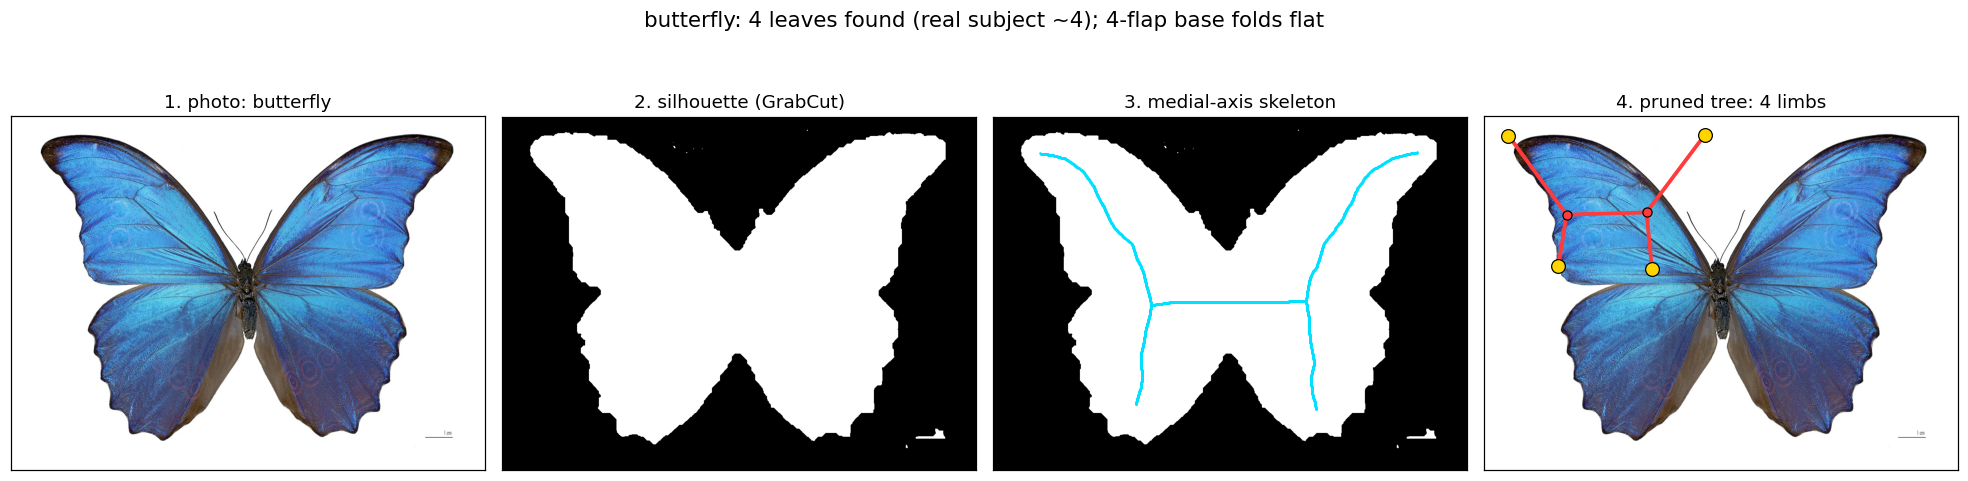
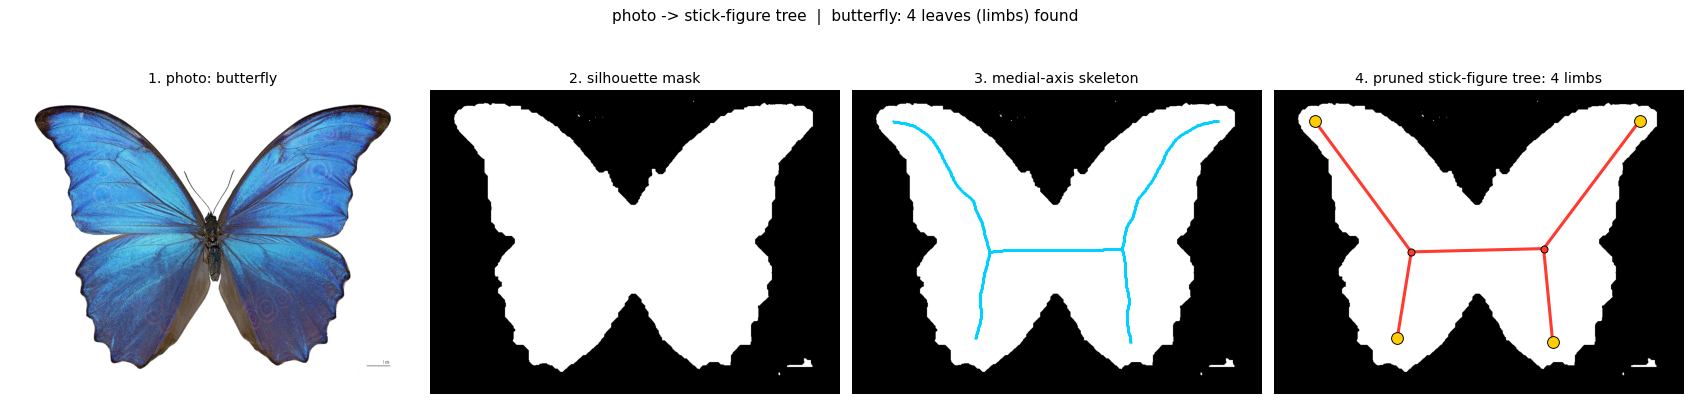
Photo-to-tree: fix segmentation so limbs extract correctly (starfish 5)
Root cause was auto-rect selecting a full-frame background band on textured
photos, not the pruning. Reject frame-spanning saliency boxes. Starfish now
yields 5 limbs; proof panels added. 5-flap base still partial (documented).

diff --git a/examples/_proof_gen.py b/examples/_proof_gen.py
@@ -1,0 +1,106 @@
+"""Generate photo->tree and photo->base proof panels for the skeleton bridge."""
+import sys
+import numpy as np
+import matplotlib
+matplotlib.use("Agg")
+import matplotlib.pyplot as plt
+
+from foldforge.design.skeleton import tree_from_image, design_from_image
+
+OUT = "examples/output"
+
+
+def draw_tree(ax, coords, adj, color="#ff3b30"):
+    """Draw a stick-figure tree (edges then nodes) using (row, col) coords."""
+    seen = set()
+    for u in adj:
+        if u not in coords:
+            continue
+        for v, _ in adj[u]:
+            if v not in coords:
+                continue
+            key = (min(u, v), max(u, v))
+            if key in seen:
+                continue
+            seen.add(key)
+            (r0, c0), (r1, c1) = coords[u], coords[v]
+            ax.plot([c0, c1], [r0, r1], "-", color=color, lw=2.6, zorder=3)
+    for u in adj:
+        if u not in coords:
+            continue
+        r, c = coords[u]
+        leaf = len(adj[u]) == 1
+        ax.plot(c, r, "o", color="#ffcc00" if leaf else color,
+                ms=10 if leaf else 6, mec="k", mew=0.8, zorder=4)
+
+
+def panel(name):
+    ext = tree_from_image(f"examples/samples/{name}.jpg")
+    photo = plt.imread(f"examples/samples/{name}.jpg")
+    mask = np.asarray(ext.mask) > 0
+    fig, ax = plt.subplots(1, 4, figsize=(20, 5.4))
+    ax[0].imshow(photo); ax[0].set_title(f"1. photo: {name}")
+    ax[1].imshow(mask, cmap="gray"); ax[1].set_title("2. silhouette mask")
+    ax[2].imshow(mask, cmap="gray")
+    ys, xs = np.where(ext.skeleton)
+    ax[2].scatter(xs, ys, s=1.0, c="#00d0ff")
+    ax[2].set_title("3. medial-axis skeleton")
+    ax[3].imshow(mask, cmap="gray")
+    draw_tree(ax[3], ext.node_coords, ext.tree_adj)
+    ax[3].set_title(f"4. pruned stick-figure tree: {ext.n_leaves} limbs")
+    for a in ax:
+        a.axis("off")
+    fig.suptitle(f"photo -> stick-figure tree  |  {name}: {ext.note}", fontsize=13)
+    fig.tight_layout()
+    p = f"{OUT}/photo_to_tree_{name}.png"
+    fig.savefig(p, dpi=85, bbox_inches="tight")
+    plt.close(fig)
+    print("wrote", p, "leaves=", ext.n_leaves)
+
+
+def base_panel(name):
+    d = design_from_image(f"examples/samples/{name}.jpg")
+    ext, pk, pt = d.extraction, d.packing, d.pattern
+    fig, ax = plt.subplots(1, 3, figsize=(16, 5.6))
+
+    mask = np.asarray(ext.mask) > 0
+    ax[0].imshow(mask, cmap="gray")
+    draw_tree(ax[0], ext.node_coords, ext.tree_adj)
+    ax[0].set_title(f"1. extracted tree: {ext.n_leaves} limbs")
+    ax[0].axis("off")
+
+    ax[1].set_aspect("equal")
+    ax[1].add_patch(plt.Rectangle((0, 0), 1, 1, fill=False, ec="#333", lw=1))
+    for (cx, cy), rr in zip(pk.centers, pk.radii):
+        ax[1].add_patch(plt.Circle((cx, cy), rr, fill=False, ec="#ff3b30", lw=1.6))
+        ax[1].plot(cx, cy, "o", color="#ff3b30", ms=4)
+    ax[1].set_xlim(-0.02, 1.02); ax[1].set_ylim(-0.02, 1.02)
+    ax[1].set_title("2. packed flap circles")
+
+    ax[2].set_aspect("equal")
+    V = np.asarray(pt.vertices)
+    col = {"M": "#d00", "V": "#06c", "B": "#333", "F": "#bbb", "U": "#999"}
+    for (i, j), a in zip(pt.edges, pt.assignment):
+        ax[2].plot([V[i][0], V[j][0]], [V[i][1], V[j][1]], "-",
+                   color=col.get(str(a), "#999"), lw=1.3)
+    ax[2].set_title("3. crease pattern (M=red, V=blue, B=black)")
+    ax[2].axis("equal"); ax[2].axis("off")
+
+    fold = "folds FLAT" if d.fold_flat else "PARTIAL (not flat-foldable)"
+    fig.suptitle(
+        f"photo -> tree -> base  |  {name}: {ext.n_leaves}-flap base {fold}\n"
+        f"{d.note}", fontsize=10)
+    fig.tight_layout()
+    p = f"{OUT}/photo_to_base_{name}.png"
+    fig.savefig(p, dpi=90, bbox_inches="tight")
+    plt.close(fig)
+    print("wrote", p)
+    print("FOLD_VALIDITY:", d.note)
+
+
+if __name__ == "__main__":
+    which = sys.argv[1]
+    if which.startswith("base:"):
+        base_panel(which.split(":", 1)[1])
+    else:
+        panel(which)

diff --git a/tests/test_autorect.py b/tests/test_autorect.py
@@ -37,6 +37,31 @@ def test_auto_rect_boxes_the_offcentre_subject():
     assert cx > 0.5 * W and cy > 0.5 * H                      # lower-right, where the subject is
 
 
+def _full_width_grain_band():
+    """A full-width textured band across the top (think wood grain) over a smooth
+    field: the saliency map lights up edge to edge, so the largest edge-density
+    blob is the *background* band, not the subject."""
+    import cv2
+    H, W = 220, 320
+    img = np.full((H, W, 3), 150, np.uint8)                  # smooth field
+    for y in range(0, int(H * 0.45)):                        # horizontal grain, full width
+        img[y, :] = (60, 60, 60) if ((y // 3) % 2 == 0) else (210, 210, 210)
+    return img
+
+
+def test_auto_rect_rejects_full_frame_band():
+    """A saliency blob spanning the full frame width has bled into a textured
+    background; the seed must fall back to the centred inset box, not return the
+    edge-to-edge band. Regression for the starfish-on-wood-grain under-count."""
+    from foldforge.origamize.vision import _auto_rect
+    img = _full_width_grain_band()
+    H, W = img.shape[:2]
+    rx, ry, rw, rh = _auto_rect(img)
+    assert rw < 0.98 * W and rh < 0.98 * H                   # not a full-frame band
+    cx, cy = rx + rw / 2, ry + rh / 2                        # centred fallback box
+    assert abs(cx - 0.5 * W) < 0.1 * W and abs(cy - 0.5 * H) < 0.1 * H
+
+
 def test_auto_mask_captures_offcentre_subject():
     from foldforge.origamize.vision import silhouette_mask
     img, (x0, y0, x1, y1) = _offcentre_textured_subject()

diff --git a/tests/test_skeleton.py b/tests/test_skeleton.py
@@ -34,6 +34,29 @@ def test_five_arm_star_has_five_leaves():
     assert isinstance(ext.tree, MetricTree)
 
 
+def _stubby_star_mask(n_arms=5, R=95, r=11, body=48, size=260):
+    """A 5-armed star with a large central *body*: the arms are short relative to
+    the hub, so an over-aggressive spur pruner would eat them. Guards the count."""
+    yy, xx = np.mgrid[0:size, 0:size]
+    cy = cx = size // 2
+    m = (yy - cy) ** 2 + (xx - cx) ** 2 <= body ** 2
+    for a in np.linspace(0, 2 * np.pi, n_arms, endpoint=False):
+        for t in np.linspace(0, 1, 400):
+            y = cy + R * np.sin(a) * t
+            x = cx + R * np.cos(a) * t
+            m[(yy - y) ** 2 + (xx - x) ** 2 <= r ** 2] = True
+    return m
+
+
+def test_stubby_five_arm_star_keeps_five_leaves():
+    """Short arms on a thick body must not be pruned away as spurs (regression:
+    the bridge under-counted stubby limbs). Non-degenerate 5-leaf tree expected."""
+    pytest.importorskip("skimage")
+    ext = tree_from_mask(_stubby_star_mask(), smooth_frac=0.0)
+    assert ext.n_leaves == 5
+    assert not ext.degenerate
+
+
 def test_plus_shape_has_four_leaves():
     pytest.importorskip("skimage")
     ext = tree_from_mask(_star_mask(4), smooth_frac=0.0)

diff --git a/foldforge/origamize/vision.py b/foldforge/origamize/vision.py
@@ -164,7 +164,12 @@ def _auto_rect(bgr, inset: float = 0.06):
         x = max(0, x - m); y = max(0, y - m)
         rw = min(w - x, rw + 2 * m); rh = min(h - y, rh + 2 * m)
         area = rw * rh / float(w * h)                   # reject whole-frame / sliver boxes
-        if rw < 8 or rh < 8 or area < 0.02 or area > 0.98:
+        # A box that spans a full frame dimension has bled off the subject into a
+        # textured background (e.g. a starfish on wood grain, whose grain lights up
+        # the edge-density map edge to edge): the blob is the background, not the
+        # subject. Fall back to the centred inset box, which holds a centred subject.
+        spans_frame = rw >= 0.98 * w or rh >= 0.98 * h
+        if rw < 8 or rh < 8 or area < 0.02 or area > 0.98 or spans_frame:
             return fallback
         return (int(x), int(y), int(rw), int(rh))
     except Exception:
